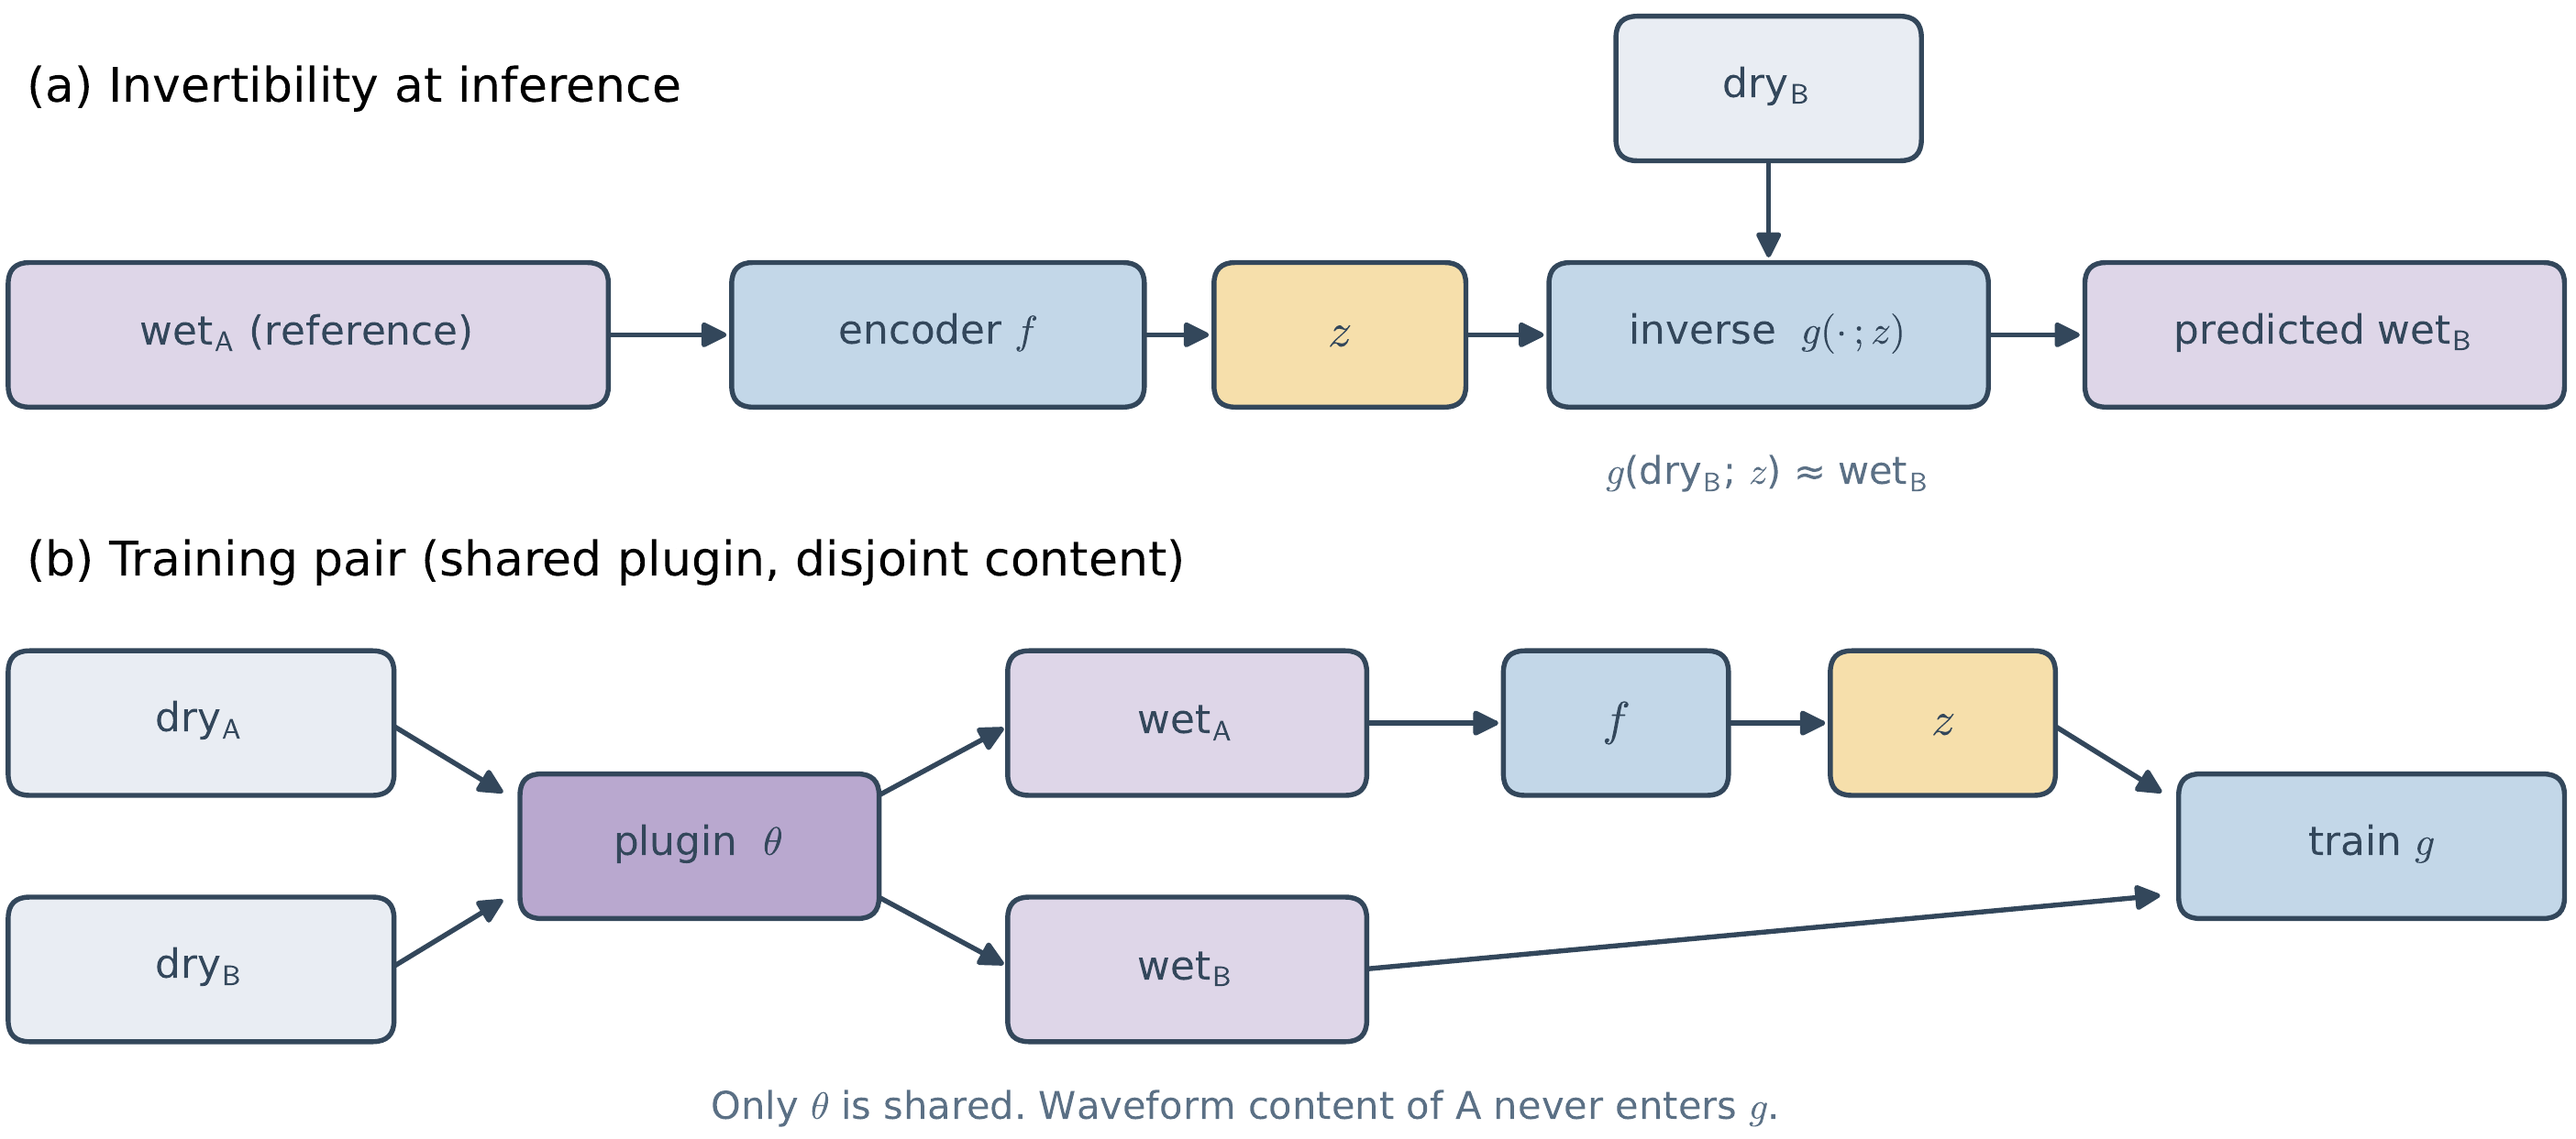
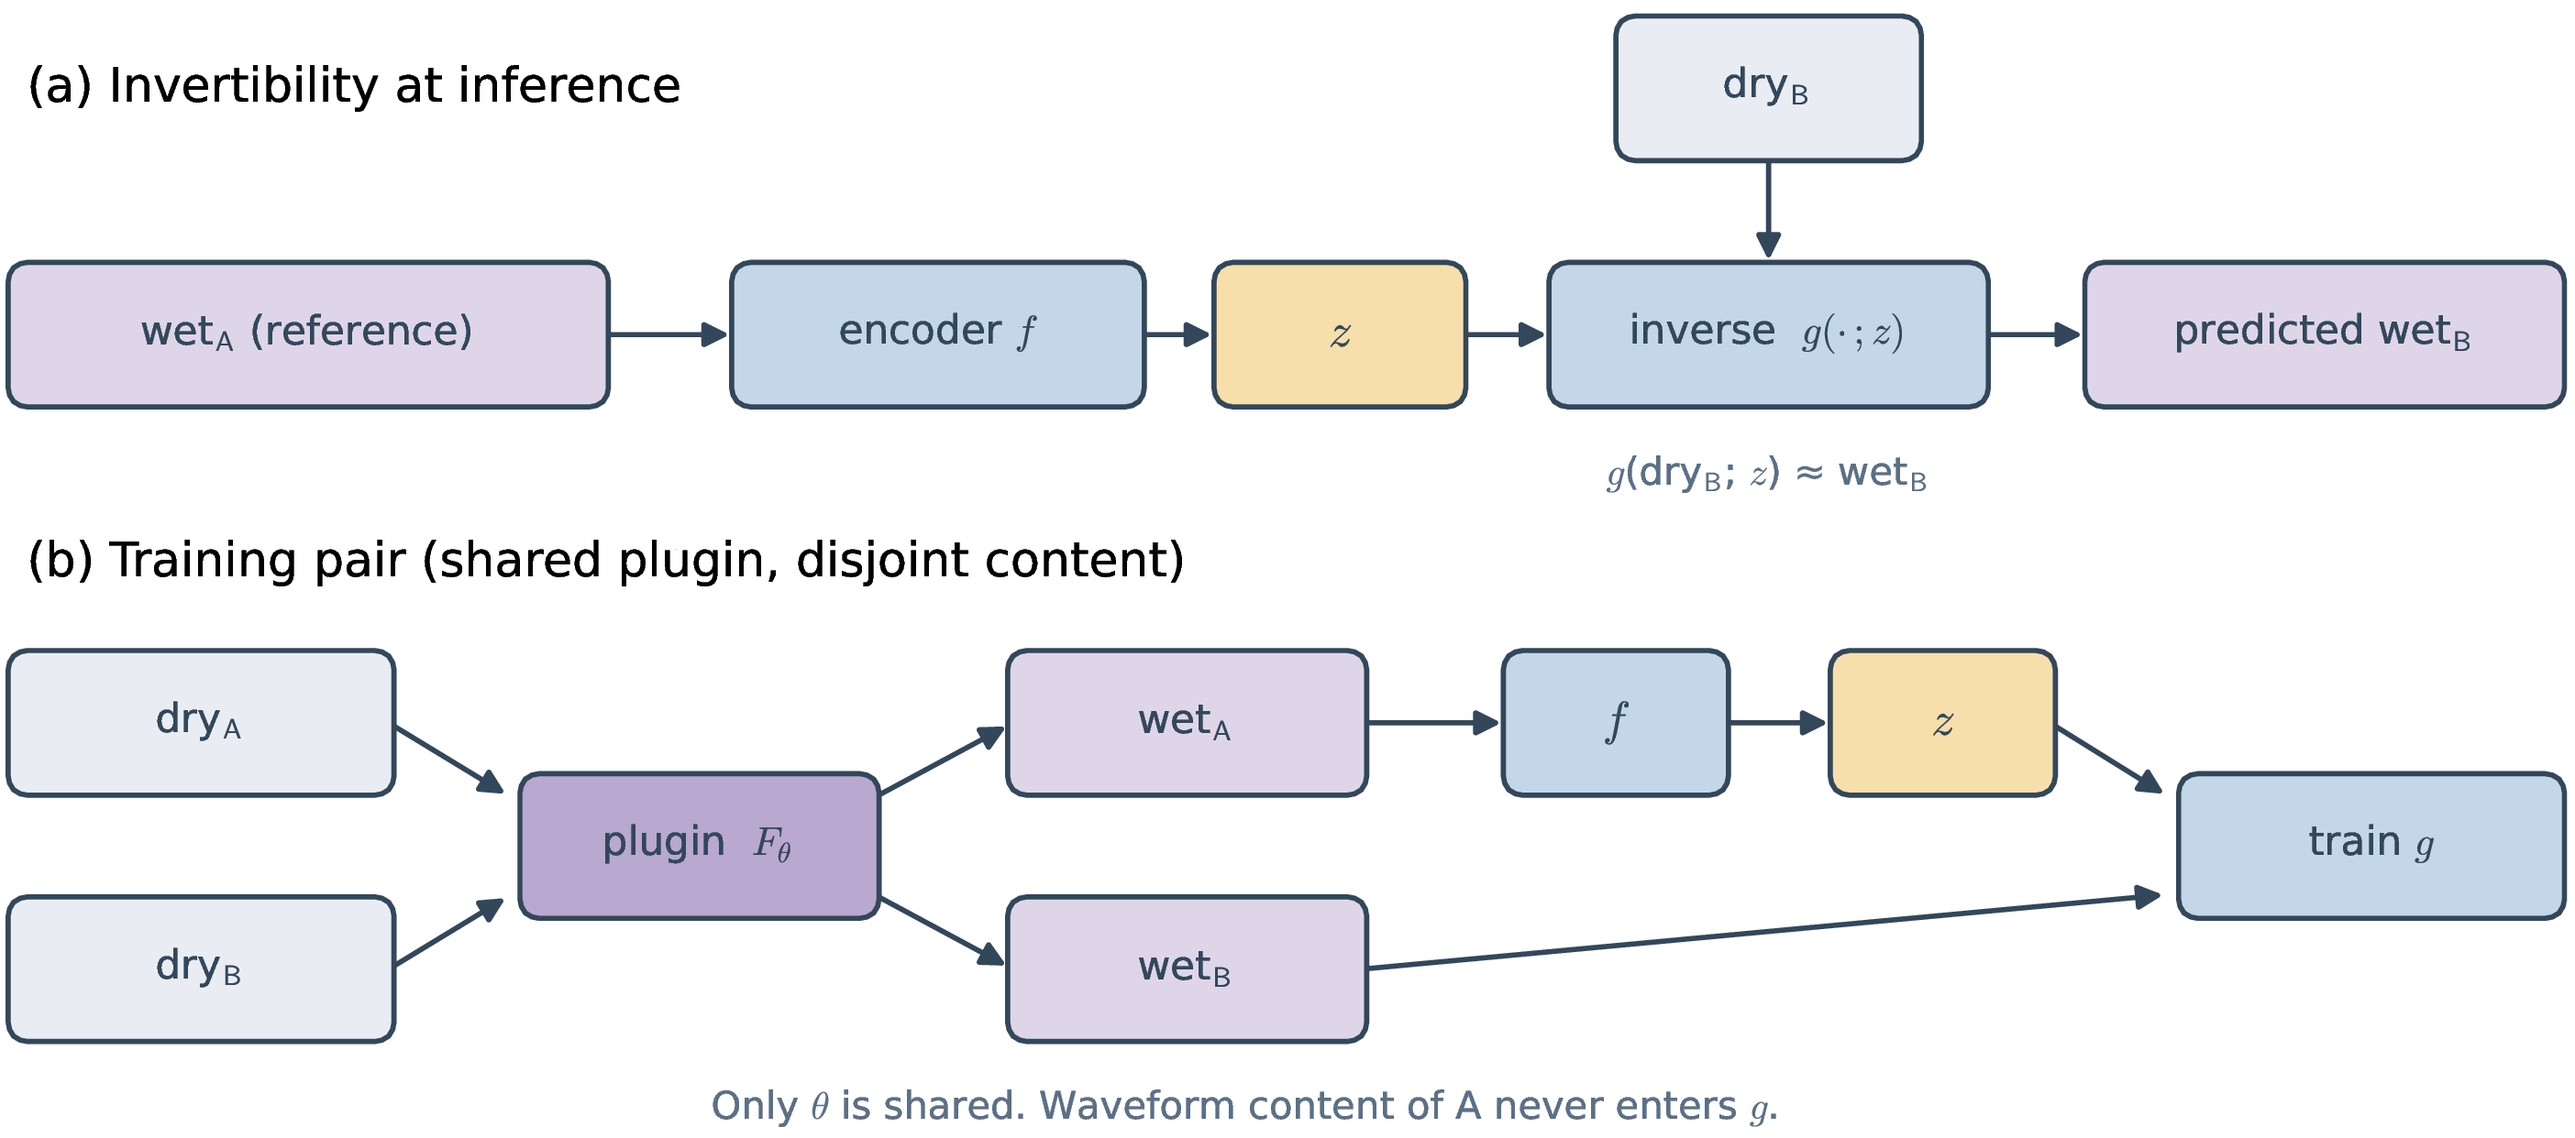
project page: transparent figure background, match title/abstract/text to paper
- Re-render invertibility diagram with a transparent PNG background instead
  of white, so it blends with the page background.
- Update <title>, h1, abstract, method prose, and citation to match
  submission/main.tex ("Learning General Audio Effect Representations"),
  which dropped the WorldAFX name entirely.
- Remove remaining WorldAFX branding from the nav, figure captions, sample
  subtitle, and audio-table headers to match.

diff --git a/index.html b/index.html
@@ -3,7 +3,7 @@
 <head>
   <meta charset="UTF-8" />
   <meta name="viewport" content="width=device-width, initial-scale=1.0" />
-  <title>WorldAFX: Content-Invariant Audio Effect Representations</title>
+  <title>Learning General Audio Effect Representations</title>
 
   <!-- Bootstrap 5 -->
   <link rel="stylesheet" href="https://cdn.jsdelivr.net/npm/bootstrap@5.3.3/dist/css/bootstrap.min.css" />
@@ -31,8 +31,8 @@
 <nav class="navbar navbar-expand-md sticky-top bg-white">
   <div class="container">
     <a class="navbar-brand" href="#">
-      <img src="img/logo.png" alt="WorldAFX" height="32" class="d-inline-block align-text-middle me-1" />
-      WorldAFX
+      <img src="img/logo.png" alt="Project logo" height="32" class="d-inline-block align-text-middle me-1" />
+      Audio Effect Representations
     </a>
     <button class="navbar-toggler" type="button" data-bs-toggle="collapse" data-bs-target="#navMenu">
       <span class="navbar-toggler-icon"></span>
@@ -54,7 +54,7 @@
 ────────────────────────────────────────────────────────── -->
 <section id="hero">
   <div class="container">
-    <h1 class="paper-title">WorldAFX: Content-Invariant<br>Audio Effect Representations</h1>
+    <h1 class="paper-title">Learning General<br>Audio Effect Representations</h1>
 
     <p class="authors">
       Phillip Long<sup>1,2,*</sup>,
@@ -87,18 +87,22 @@
 <section id="abstract">
   <div class="container">
     <h2 class="section-title text-center">Abstract</h2>
-    <!-- TODO: replace with final paper abstract -->
     <p>
-      We present <strong>WorldAFX</strong>, a system that learns to represent audio effects — such
-      as equalization, dynamic compression, saturation, and reverberation — directly from
-      dry/wet audio pairs, without access to plugin parameter labels. Our key insight is
-      that a content-invariant representation can be learned by training on pairs where
-      the same effect is applied to <em>different</em> source audio, forcing the encoder to
-      capture only the effect's character and not the content. At inference time, given a
-      dry signal and a reference wet recording, WorldAFX predicts the effect parameters
-      needed to match the reference. We evaluate across a diverse set of professional VST3
-      plugins spanning multiple effect categories and demonstrate strong reconstruction
-      quality both via objective metrics and a MUSHRA listening study.
+      Neural models of audio effects have mostly been built as black-box emulators of one
+      device or one effect type. In this work we learn a general representation space of
+      audio effects and apply it to new material in real time. An encoder maps a processed
+      reference to an embedding <em>z</em> ∈ ℝ<sup>256</sup> that does not depend on the source.
+      To decode <em>z</em> into human-readable primitives for signal shaping, we design a
+      factorized differentiable chain of digital signal processing (DSP) modules for
+      equalization, compression, waveshaping, residual color, and reverberation, and train
+      it to reproduce the treatment of the reference on a dry recording the encoder has
+      never seen. As the inverse is decoded as a series of DSP parameters, it is fast enough
+      to run at real-time speed on a single core of consumer CPUs. Furthermore, we show that
+      the learned representation space can be easily aligned with text, and enables planning
+      in this space at test time through test-time adaptation. To the best of our knowledge,
+      this is the first work to learn a general representation space of audio effects that
+      is invertible, human-readable, and runs at real-time speed on a single core of
+      consumer CPUs.
     </p>
   </div>
 </section>
@@ -110,20 +114,21 @@
   <div class="container">
     <h2 class="section-title">Method</h2>
     <p>
-      WorldAFX uses a <strong>factorized architecture</strong>: a shared audio encoder maps a wet
-      reference clip to a <em>tone embedding</em>, and each DSP module (EQ, compressor,
-      saturator, reverb) contains its own lightweight MLP that reads from this embedding to
-      predict its plugin parameters. A differentiable neural nonlinearity handles residual
-      timbral shaping beyond what the DSP modules capture. The entire system is trained
-      end-to-end on <strong>content-invariant pairs</strong> — the reference and target use
-      the <em>same</em> audio effect settings applied to <em>different</em> source recordings —
-      preventing the encoder from memorizing content and ensuring the tone embedding captures
-      only effect character.
+      A shared audio encoder maps a wet reference clip to a <em>tone embedding</em>
+      <em>z</em> ∈ ℝ<sup>256</sup> that does not depend on the source it was heard on. To
+      decode <em>z</em> into human-readable primitives for signal shaping, the inverse
+      <em>g</em> is a <strong>factorized differentiable chain of DSP modules</strong> for
+      equalization, compression, waveshaping, residual color, and reverberation, each
+      reading its parameters from <em>z</em> through a small head. The entire system is
+      trained end-to-end on <strong>content-invariant pairs</strong> — the reference and
+      target share the <em>same</em> plugin setting applied to <em>different</em> source
+      recordings — so the only thing <em>z</em> can usefully describe is the treatment,
+      not the content.
     </p>
     <div class="architecture-figure">
-      <img src="img/invertibility_diagram.png" alt="WorldAFX training pair construction and invertibility at inference diagram" />
+      <img src="img/invertibility_diagram.png" alt="Training pair construction and invertibility at inference diagram" />
       <p class="figure-caption">
-        <strong>Figure 1.</strong> WorldAFX is trained on content-invariant pairs: the same
+        <strong>Figure 1.</strong> Training on content-invariant pairs: the same
         plugin setting applied to disjoint source audio (b). At inference, the predicted
         tone embedding <em>z</em> generalizes to unseen dry content — applying <em>g</em>(dry<sub>B</sub>; z)
         recovers wet<sub>B</sub>, demonstrating that the embedding captures effect character
@@ -141,7 +146,7 @@
     <h2 class="section-title">Audio Samples</h2>
     <p class="section-subtitle">
       Each row shows a dry input, the ground-truth reference (real plugin output), and
-      WorldAFX predictions before and after GAN fine-tuning. The system receives only the
+      the model's predictions before and after GAN fine-tuning. The system receives only the
       dry signal and a reference wet clip; it predicts plugin parameters to match the effect.
     </p>
 
@@ -155,7 +160,7 @@
         <table class="audio-table">
           <thead><tr>
             <th>Dry (Input)</th><th>Reference (Real Plugin)</th>
-            <th>WorldAFX Pre-GAN</th><th>WorldAFX Post-GAN</th>
+            <th>Pre-GAN</th><th>Post-GAN</th>
           </tr></thead>
           <tbody><tr>
             <td><audio controls src="audio/main/pair_00/dry.mp3"></audio></td>
@@ -177,7 +182,7 @@
         <table class="audio-table">
           <thead><tr>
             <th>Dry (Input)</th><th>Reference (Real Plugin)</th>
-            <th>WorldAFX Pre-GAN</th><th>WorldAFX Post-GAN</th>
+            <th>Pre-GAN</th><th>Post-GAN</th>
           </tr></thead>
           <tbody><tr>
             <td><audio controls src="audio/main/pair_01/dry.mp3"></audio></td>
@@ -199,7 +204,7 @@
         <table class="audio-table">
           <thead><tr>
             <th>Dry (Input)</th><th>Reference (Real Plugin)</th>
-            <th>WorldAFX Pre-GAN</th><th>WorldAFX Post-GAN</th>
+            <th>Pre-GAN</th><th>Post-GAN</th>
           </tr></thead>
           <tbody><tr>
             <td><audio controls src="audio/main/pair_02/dry.mp3"></audio></td>
@@ -221,7 +226,7 @@
         <table class="audio-table">
           <thead><tr>
             <th>Dry (Input)</th><th>Reference (Real Plugin)</th>
-            <th>WorldAFX Pre-GAN</th><th>WorldAFX Post-GAN</th>
+            <th>Pre-GAN</th><th>Post-GAN</th>
           </tr></thead>
           <tbody><tr>
             <td><audio controls src="audio/main/pair_03/dry.mp3"></audio></td>
@@ -243,7 +248,7 @@
         <table class="audio-table">
           <thead><tr>
             <th>Dry (Input)</th><th>Reference (Real Plugin)</th>
-            <th>WorldAFX Pre-GAN</th><th>WorldAFX Post-GAN</th>
+            <th>Pre-GAN</th><th>Post-GAN</th>
           </tr></thead>
           <tbody><tr>
             <td><audio controls src="audio/main/pair_04/dry.mp3"></audio></td>
@@ -265,7 +270,7 @@
         <table class="audio-table">
           <thead><tr>
             <th>Dry (Input)</th><th>Reference (Real Plugin)</th>
-            <th>WorldAFX Pre-GAN</th><th>WorldAFX Post-GAN</th>
+            <th>Pre-GAN</th><th>Post-GAN</th>
           </tr></thead>
           <tbody><tr>
             <td><audio controls src="audio/main/pair_05/dry.mp3"></audio></td>
@@ -287,7 +292,7 @@
         <table class="audio-table">
           <thead><tr>
             <th>Dry (Input)</th><th>Reference (Real Plugin)</th>
-            <th>WorldAFX Pre-GAN</th><th>WorldAFX Post-GAN</th>
+            <th>Pre-GAN</th><th>Post-GAN</th>
           </tr></thead>
           <tbody><tr>
             <td><audio controls src="audio/main/pair_06/dry.mp3"></audio></td>
@@ -309,7 +314,7 @@
         <table class="audio-table">
           <thead><tr>
             <th>Dry (Input)</th><th>Reference (Real Plugin)</th>
-            <th>WorldAFX Pre-GAN</th><th>WorldAFX Post-GAN</th>
+            <th>Pre-GAN</th><th>Post-GAN</th>
           </tr></thead>
           <tbody><tr>
             <td><audio controls src="audio/main/pair_07/dry.mp3"></audio></td>
@@ -595,8 +600,8 @@
   <div class="container">
     <h2 class="section-title text-center">Citation</h2>
     <!-- TODO: fill in once paper is published -->
-    <pre>@inproceedings{long2025worldafx,
-  title     = {WorldAFX: Content-Invariant Audio Effect Representations},
+    <pre>@inproceedings{long2025audioeffects,
+  title     = {Learning General Audio Effect Representations},
   author    = {Long, Phillip and Zang, Yongyi and Benetatos, Christodoulos and Yang, Qihui and Liu, Junfei and McAuley, Julian and Leistikow, Randal},
   booktitle = {TODO},
   year      = {2025},
